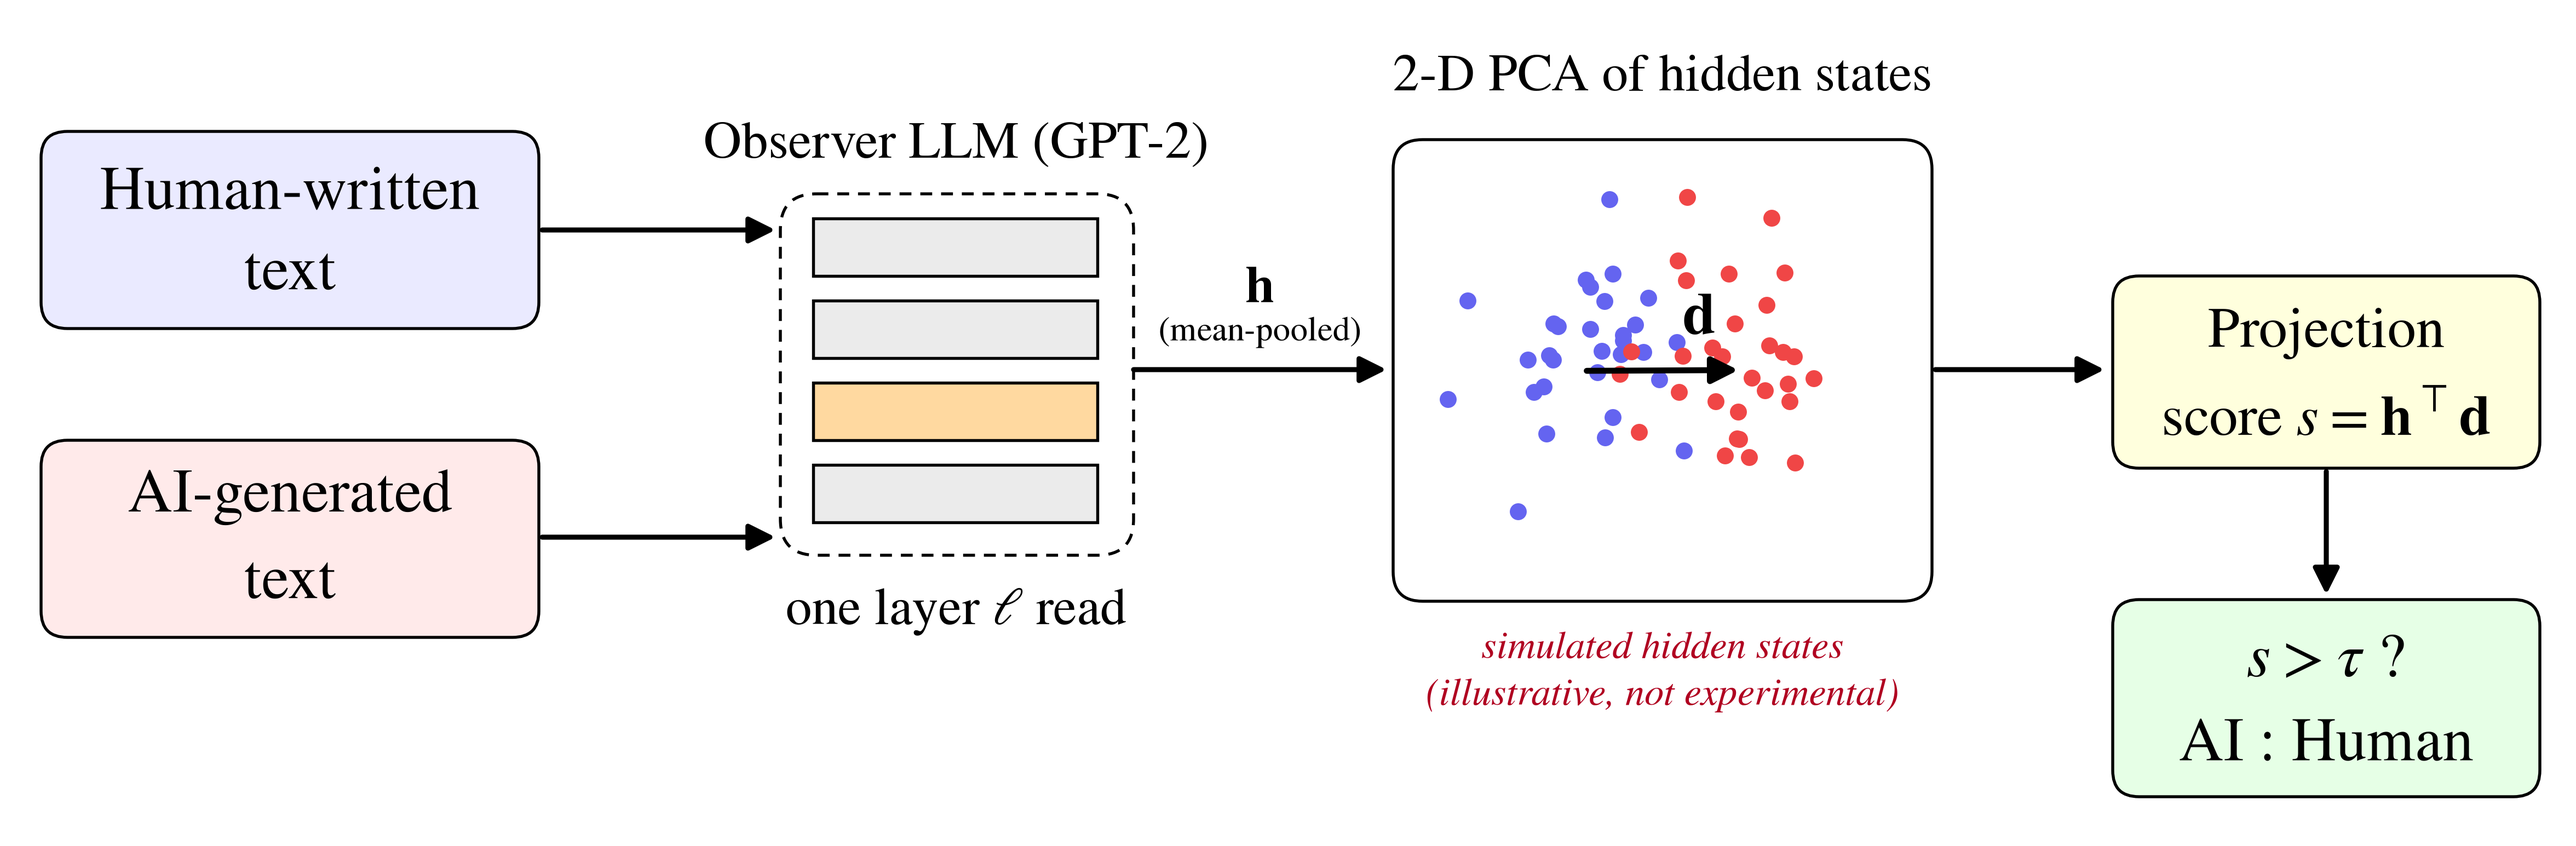
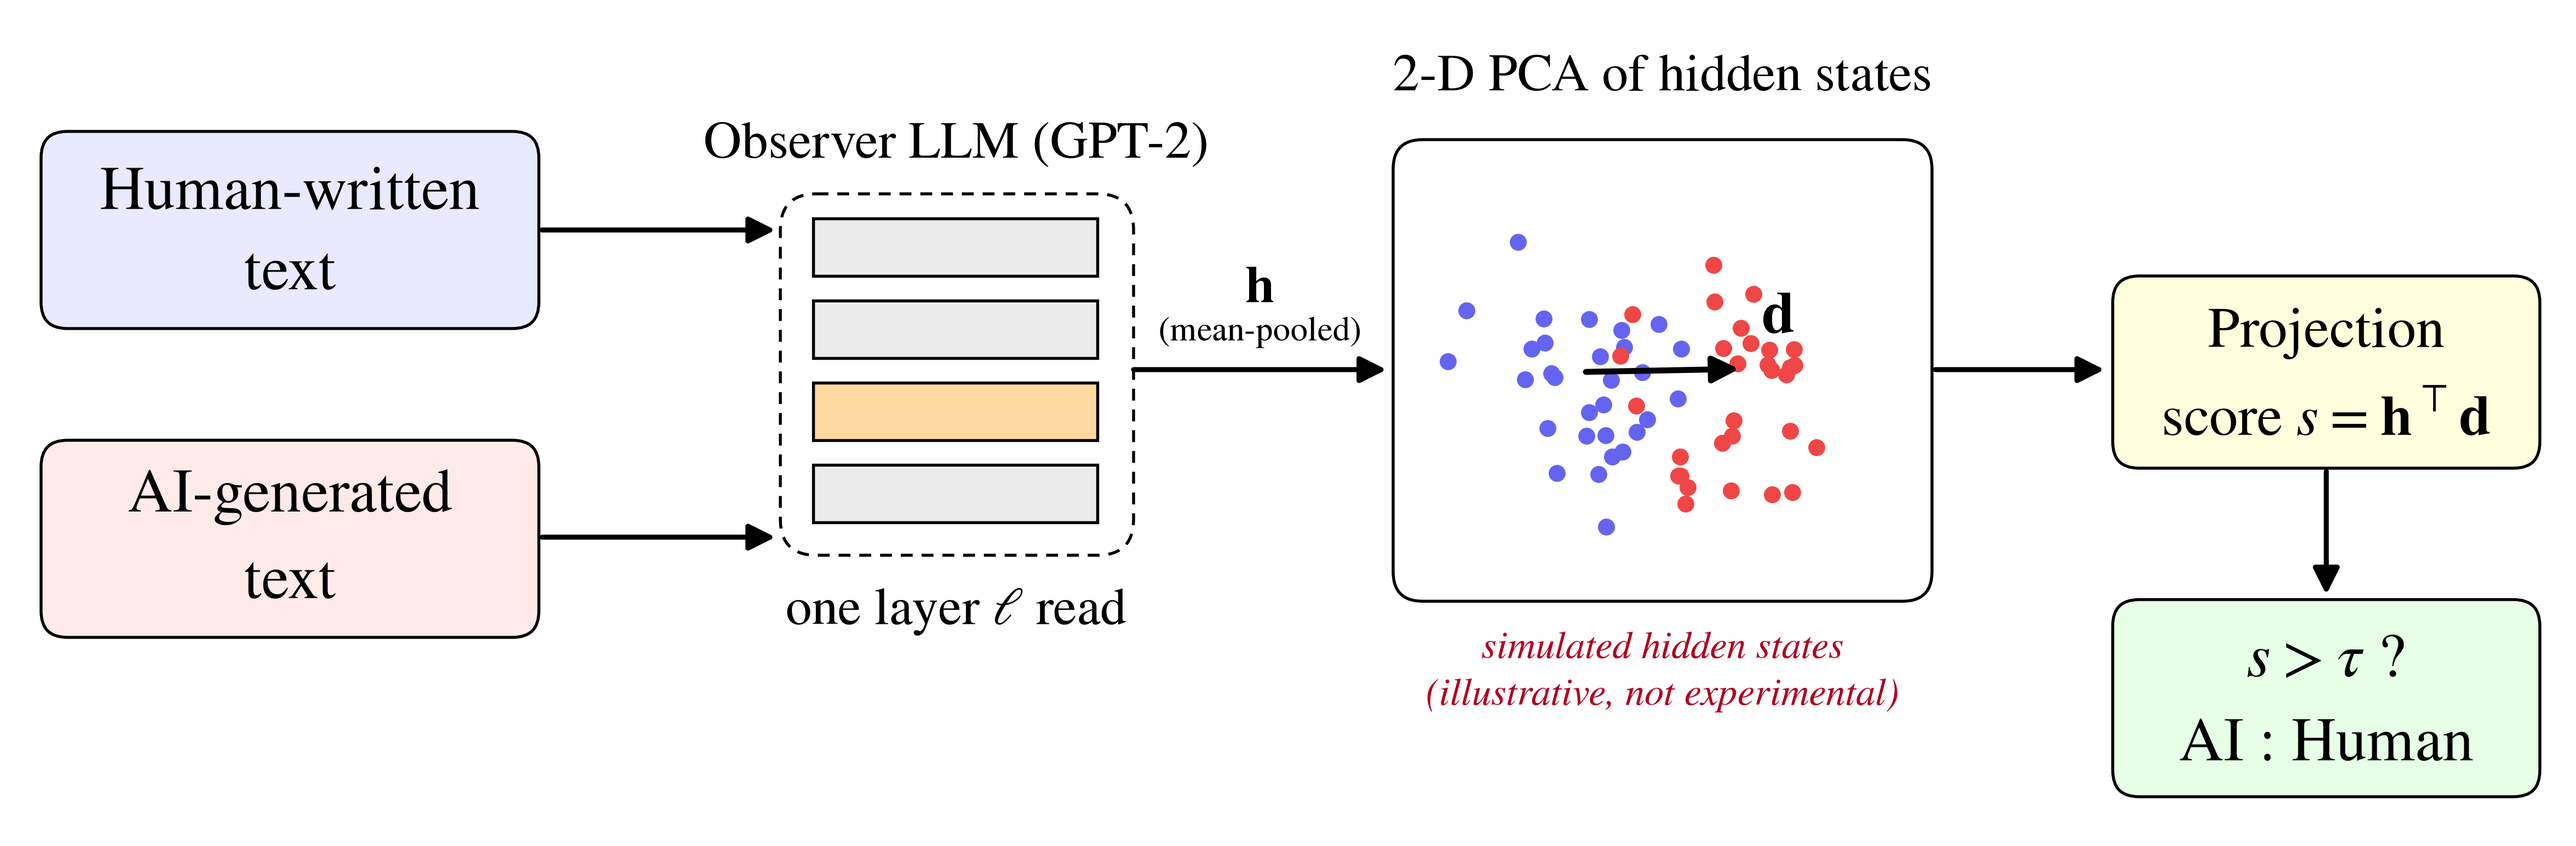
Use exact PCA solver so figures are reproducible; regenerate pipeline/results figures

Changed region(s): [[0.5625, 0.3107, 0.7188, 0.5903], [0.625, 0.2175, 0.6562, 0.2485], [0.5625, 0.5903, 0.5938, 0.6214]]

diff --git a/linear_probe.py b/linear_probe.py
@@ -140,7 +140,7 @@ zlab = "z-scored" if args.zscore else "raw"
 # PCA of the hidden states used by the probe (same feature space as d); d expressed in PC coordinates
 Hl = H_all[:, :, args.layer]
 Xp = (Hl - R["mu"]) / R["sd"]
-pca = PCA(n_components=2).fit(Xp)
+pca = PCA(n_components=2, svd_solver="full").fit(Xp)   # exact solver -> reproducible figures
 Z2 = pca.transform(Xp)
 d2 = pca.components_ @ R["d"]                            # d projected into the PCA plane
 
